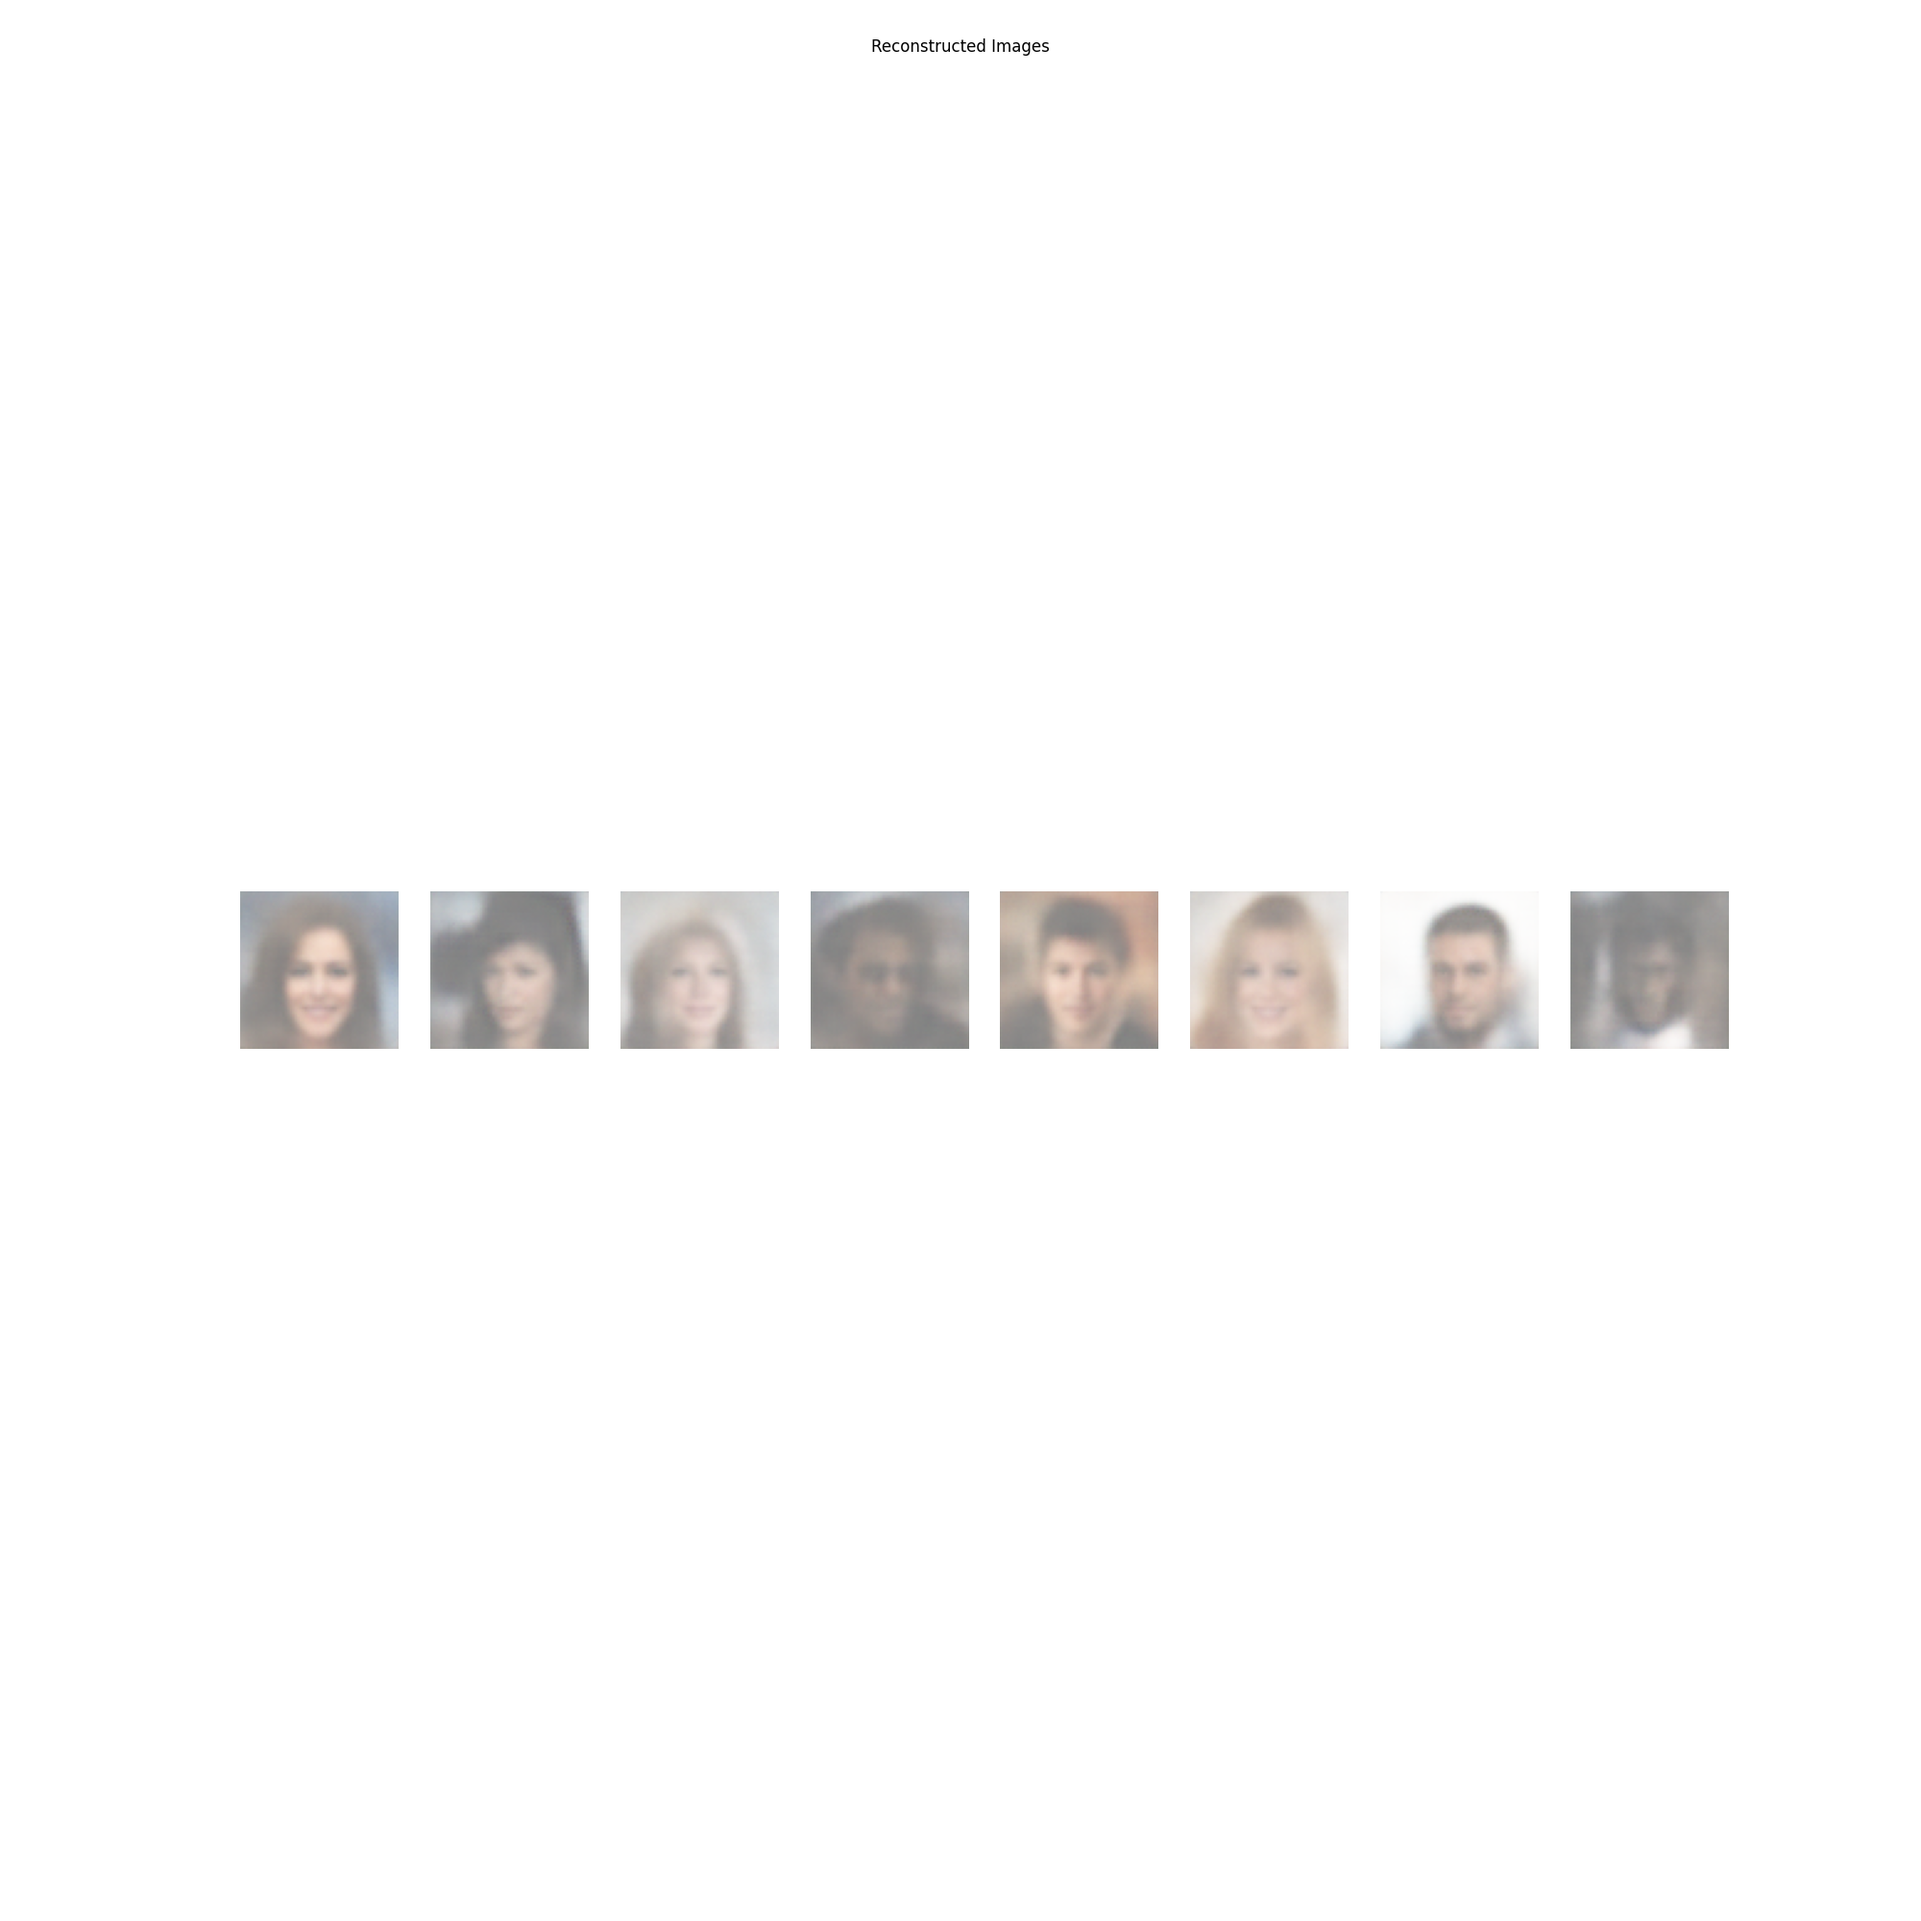
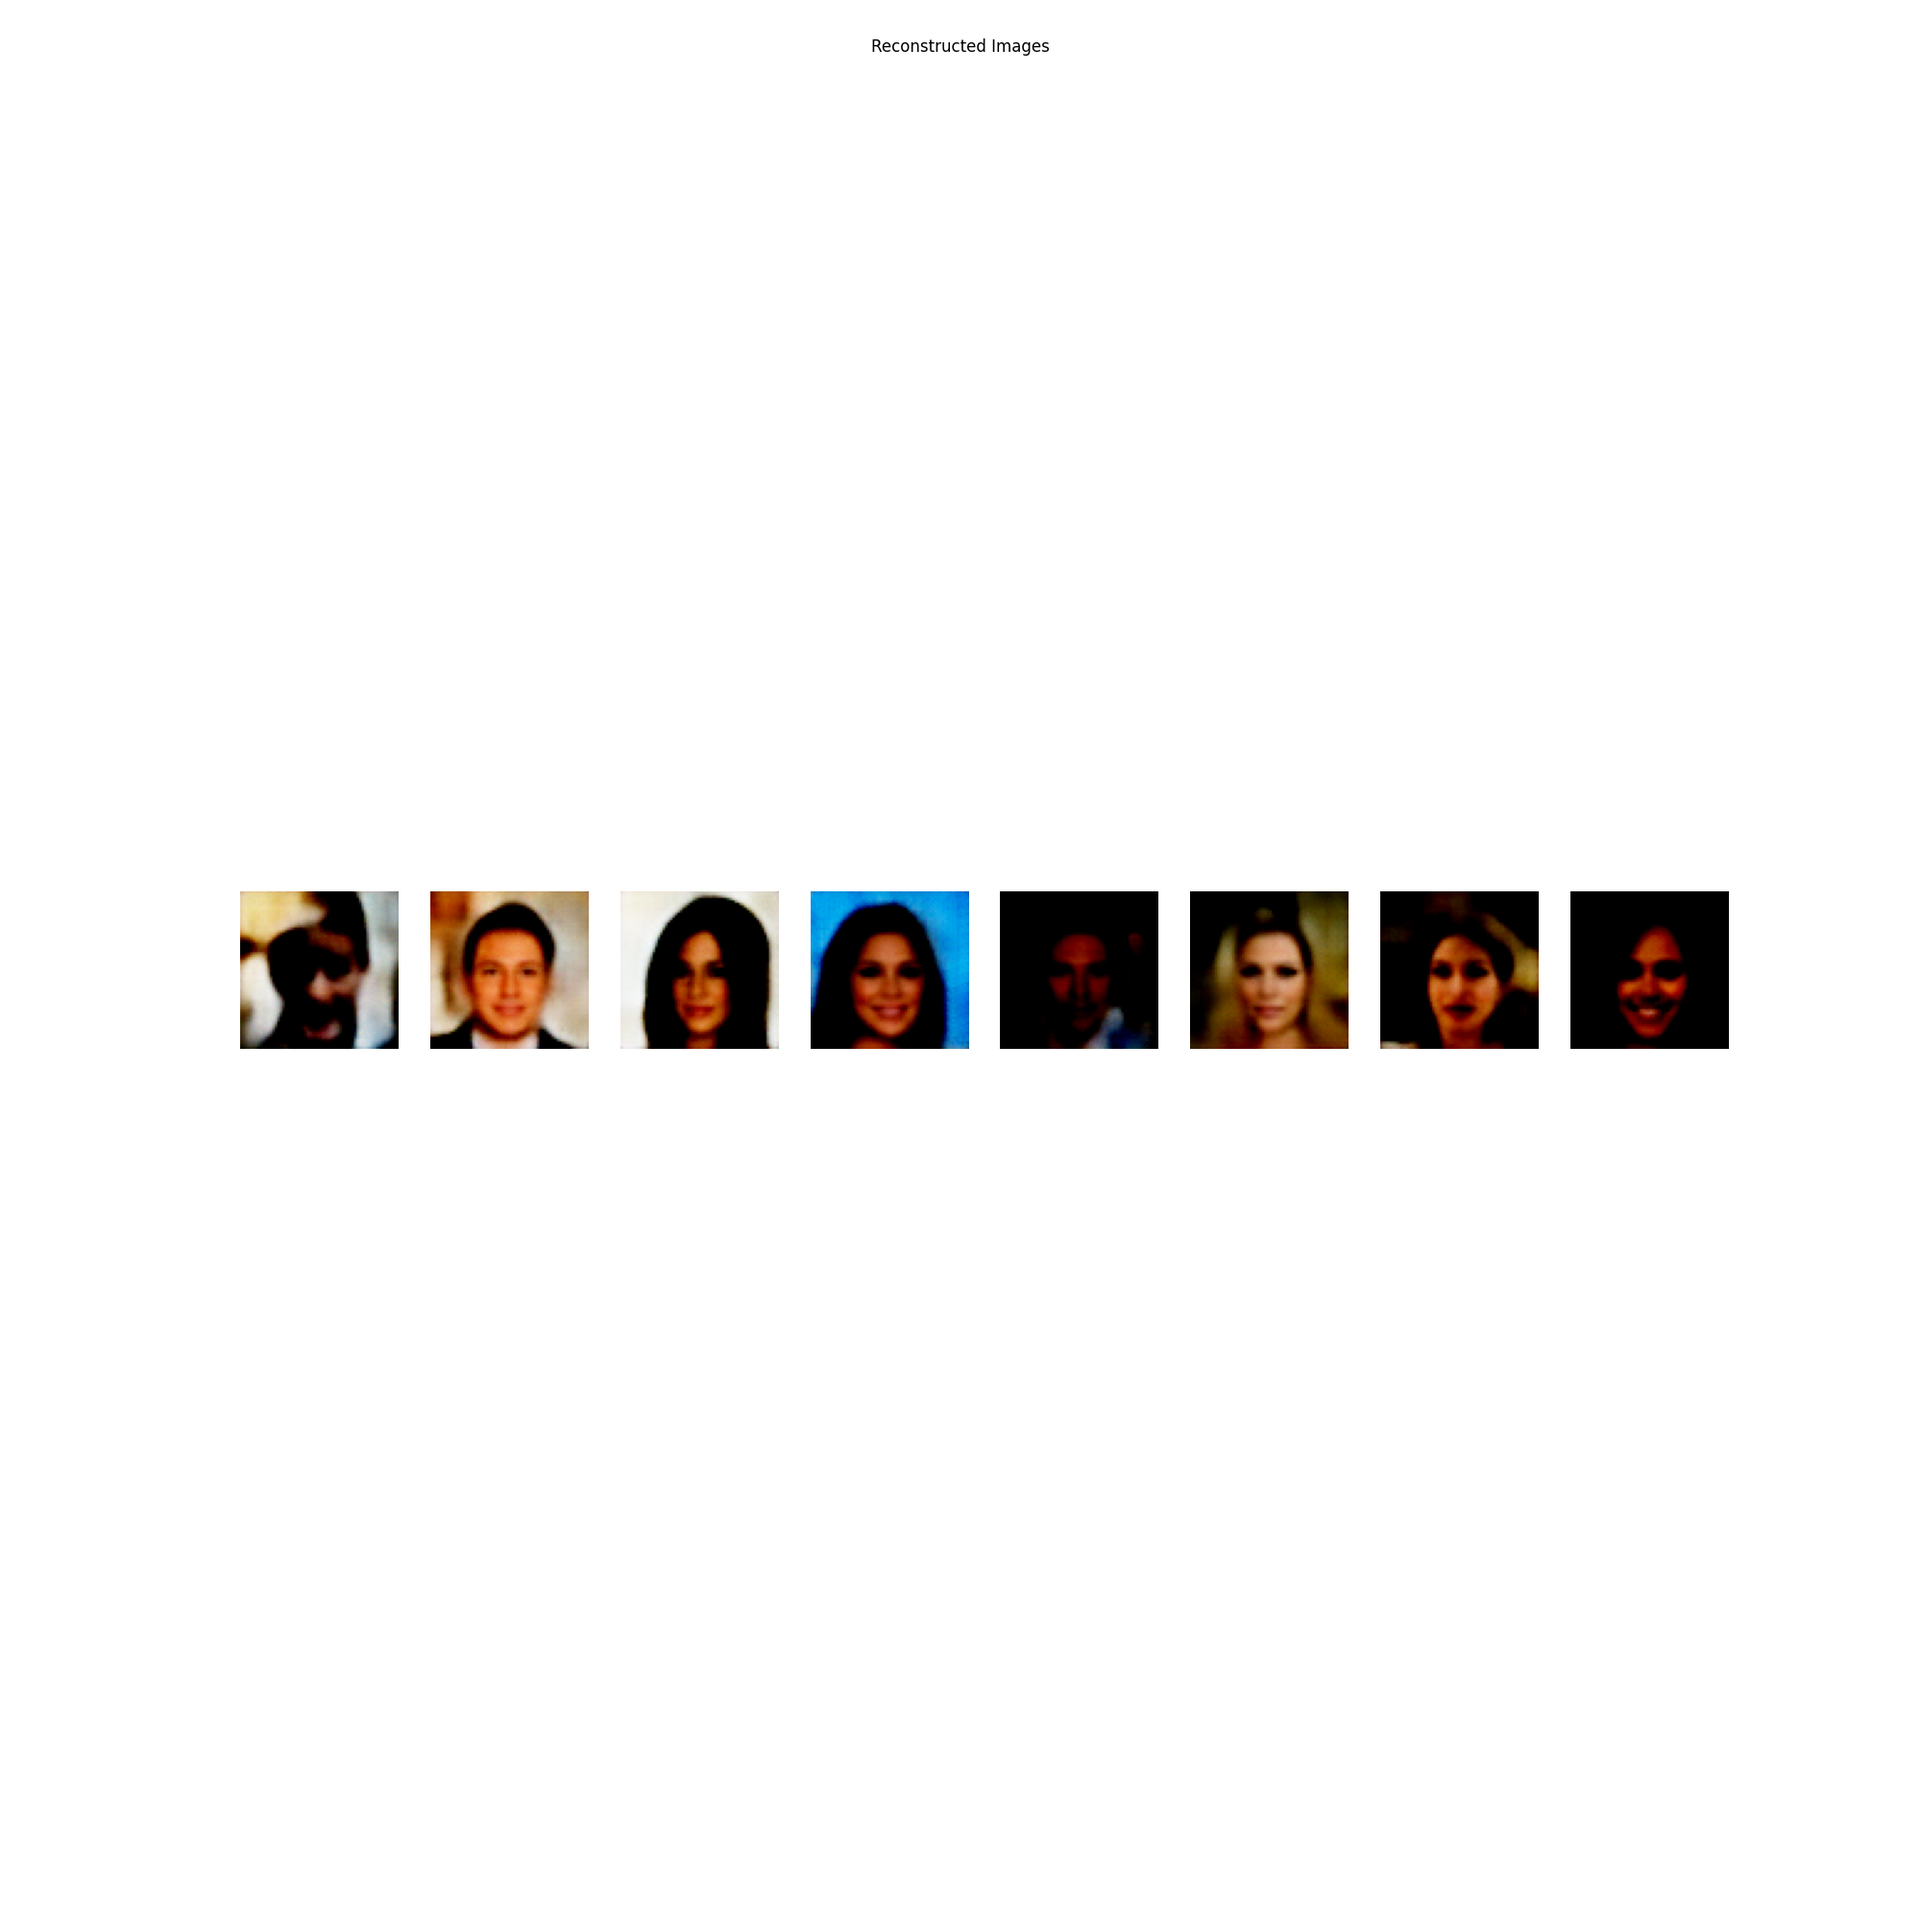
Refactor .gitignore to ignore all .pth files

Changed region(s): [[0.124, 0.465, 0.899, 0.558]]

diff --git a/test.py b/test.py
@@ -7,7 +7,7 @@ from dataloader import get_celeba_loader
 def show_images(images,title):
     
     images = images.detach().cpu().numpy().transpose(0,2,3,1)
-    images = (images+1)/2
+    # images = (images+1)/2
     
     fig,ax = plt.subplots(1,len(images),figsize=(20,20))
     for i in range(len(images)):
@@ -45,7 +45,7 @@ if __name__ == '__main__':
     
     dataloader = get_celeba_loader(batch_size,img_size,data_dir)
     model = VAE(z_dim,img_size).to(device)
-    model.load_state_dict(torch.load('vae1.pth',weights_only=True))
+    model.load_state_dict(torch.load('vae2.pth',weights_only=True))
     
     test_vae(model,dataloader,device)
         

diff --git a/dataloader.py b/dataloader.py
@@ -27,7 +27,7 @@ def get_celeba_loader(batch_size,img_size,data_dir):
         transforms.Resize(img_size),
         transforms.CenterCrop(img_size),
         transforms.ToTensor(),
-        # transforms.Normalize((0.5,0.5,0.5),(0.5,0.5,0.5))
+        transforms.Normalize((0.5,0.5,0.5),(0.5,0.5,0.5))
     ])
     dataset = CelebADataset(data_dir,transform=transform)
     dataloader = DataLoader(dataset,batch_size=batch_size,shuffle=True)

diff --git a/train.py b/train.py
@@ -40,4 +40,4 @@ if __name__ == '__main__':
     train_vae(epochs,dataloader,model,optimizer,device)
     
     # save model
-    torch.save(model.state_dict(),'vae1.pth')
+    torch.save(model.state_dict(),'vae2.pth')
